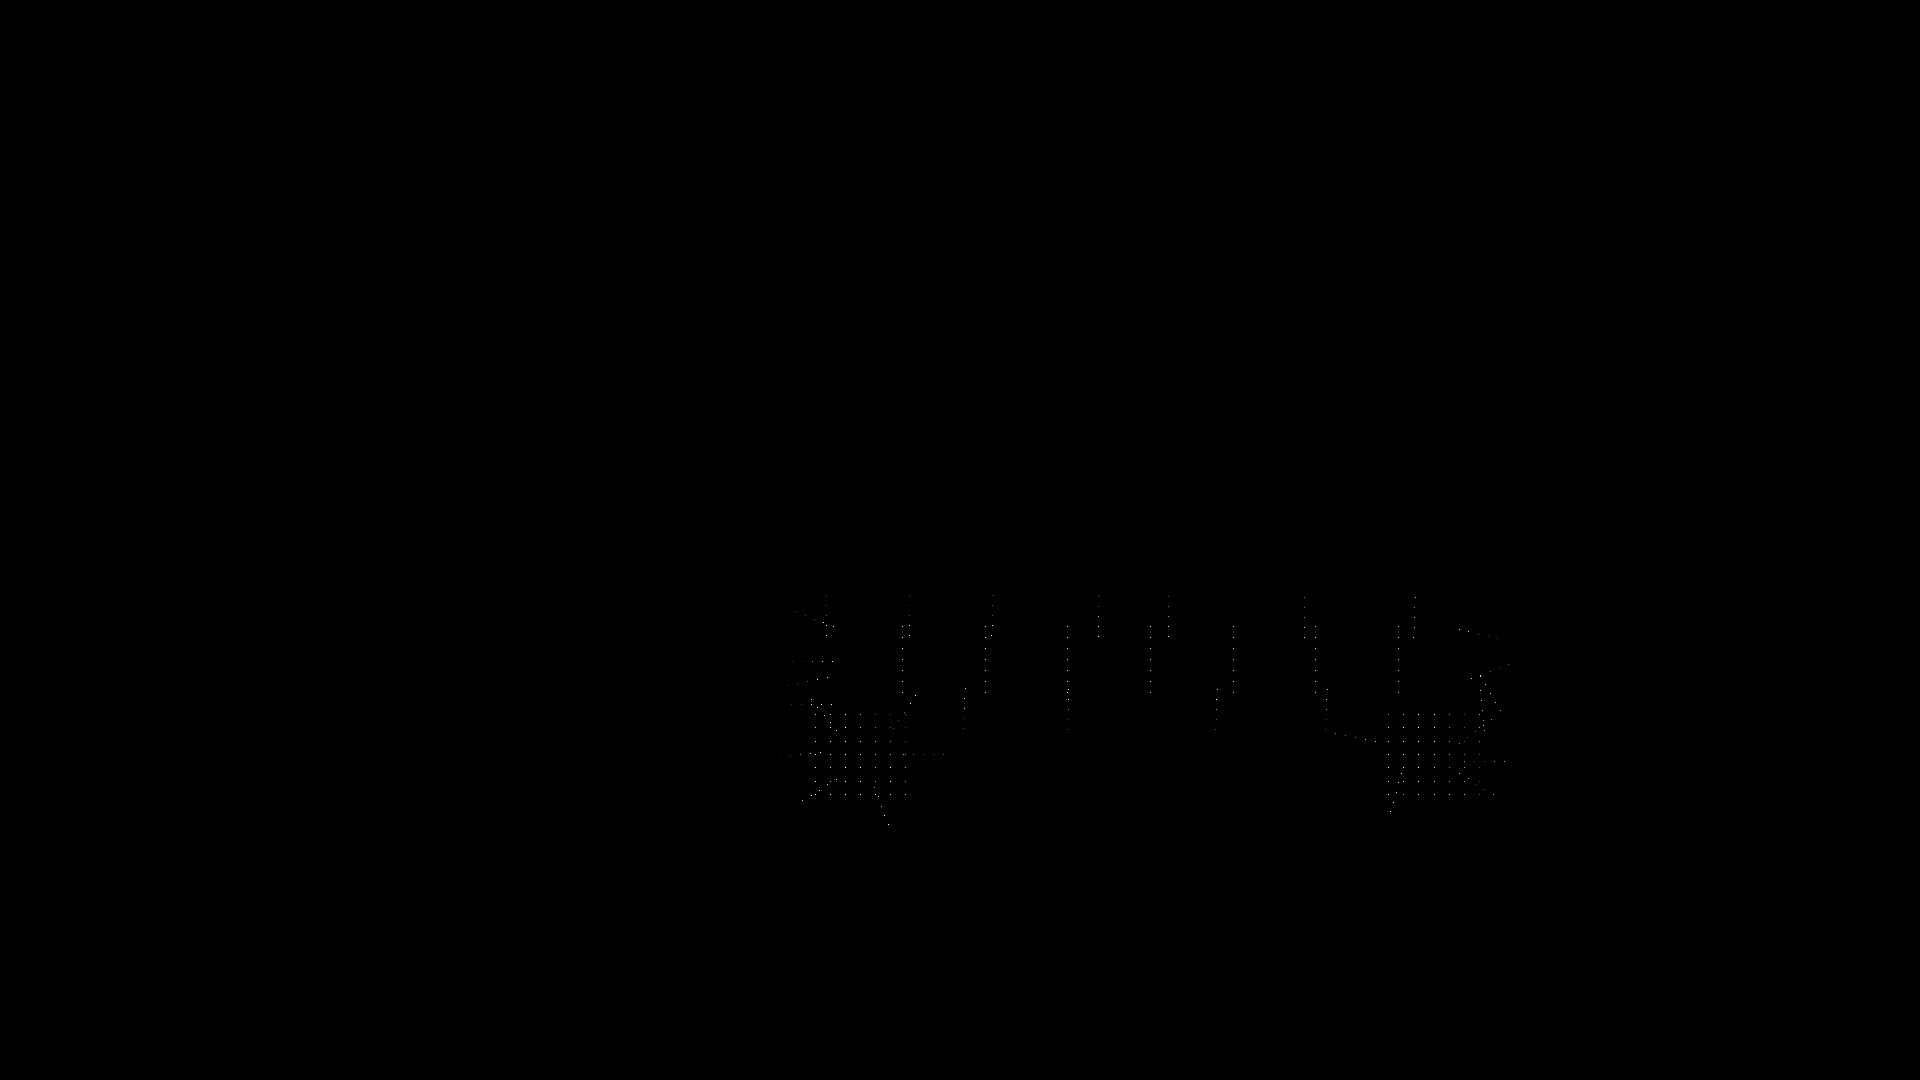
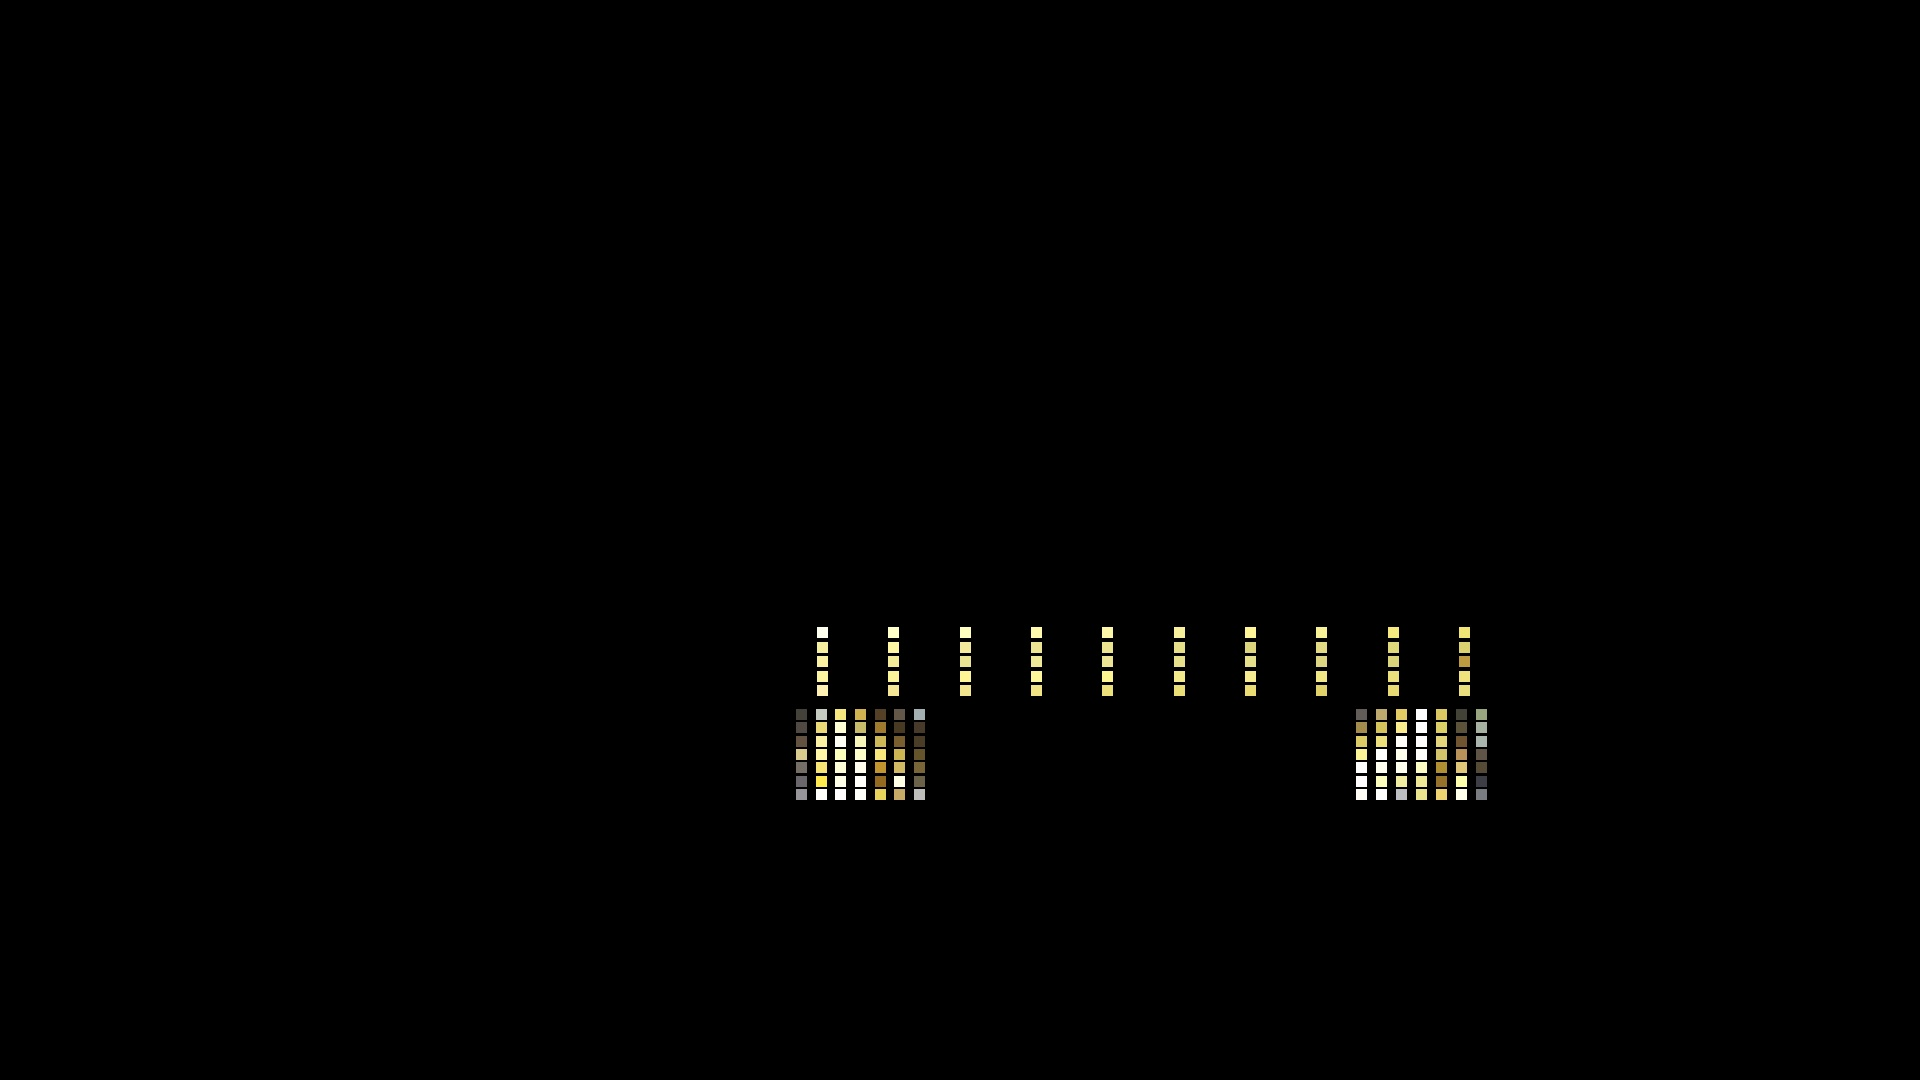
Better Visuals from truthBGR.py

Changed region(s): [[0.6875, 0.5806, 0.7812, 0.7639], [0.4062, 0.5806, 0.5, 0.7639], [0.5, 0.5806, 0.6562, 0.6417]]

diff --git a/ExtractionScripts/pix_selection.py b/ExtractionScripts/pix_selection.py
@@ -91,7 +91,7 @@ image_directory = "handrail_single_real.jpg"           #.# pre-flight caputred i
 SHOW_POLYLINES = False
 SHOW_EDGE_PIXELS = True
 # number of pixels
-num_intervals = 30
+num_intervals = 0
 num_pix_per_interval = 5                # at first, set to 1
 pix2pix_dist = 10                       # at first, set to 1
 
@@ -103,17 +103,17 @@ SHOW_ENTIRE_HANDRAIL_BBOX = False
 # bbox location
 SHOW_RAIL_BBOX = False
 SHOW_RAIL_PIX =True
-c_l_rail, c_r_rail = 0.03, 0.98
-c_t_rail, c_b_rail = 0.0, 0.46
+c_l_rail, c_r_rail = -0.07, 1.06
+c_t_rail, c_b_rail = 0.02, 0.47
 # number of pixels
-numRow_rail = 7
-numCol_rail = 7
+numRow_rail = 5
+numCol_rail = 10
 
 ### LEFT STANDOFFF ###
 # bbox location
 SHOW_LEFT_STANDOFF_BBOX = False
 SHOW_LEFT_STANDOFF_PIX =True
-c_l_L, c_r_L = 0.0, 0.175
+c_l_L, c_r_L = -0.025, 0.2
 c_t_L, c_b_L = 0.45, 1.0
 # number of pixels
 numRowL = 7
@@ -123,7 +123,7 @@ numColL = 7
 # bbox location
 SHOW_RIGHT_STANDOFF_BBOX = False
 SHOW_RIGHT_STANDOFF_PIX =True
-c_l_R, c_r_R = 0.825, 1.0
+c_l_R, c_r_R = 0.78, 1.01
 c_t_R, c_b_R = 0.45, 1.0
 # number of pixels
 numRowR = 7
@@ -433,9 +433,8 @@ with open("truthBGR_xy_coor.json", "w") as outfile:
     outfile.write(str(pix_xy))
 
 
-cv2.imshow("handrail_visual_of_pix_select.jpg", img)             # show interval of interest on edited image
-cv2.waitKey(0)
-cv2.destroyAllWindows()
-print(type(img))
+# cv2.imshow("handrail_visual_of_pix_select.jpg", img)             # show interval of interest on edited image
+# cv2.waitKey(0)
+# cv2.destroyAllWindows()
 cv2.imwrite("handrail_visual_of_pix_select.jpg", img)
 

diff --git a/ExtractionScripts/truthBGR.py b/ExtractionScripts/truthBGR.py
@@ -42,6 +42,20 @@ def truthBGR(image_directory):
 
 
 # ### INPUT VARIABLES FOR TESTING ###
+def Dot2Rect(x,y):  
+    """
+    Find pixel points around a coordinate of interest 
+    for visualizing pixel placement in image
+    Input: coordinates of interst
+    Output: min and max x,y to define rectangle"""
+    d = 5
+    x_min = int(x-d)
+    y_min = int(y-d)
+    x_max = int(x+d)
+    y_max = int(y+d)
+
+    return x_min, y_min,x_max,y_max
+
 image_directory = "handrail_single_real.jpg"            #.# caputred image
 truthBGR(image_directory)
 img_captured = cv2.imread(image_directory)
@@ -59,7 +73,13 @@ print(pix_xy)
 img_visual = np.zeros((h,w,3), dtype=np.uint8)
 for [x,y] in pix_xy:
   B,G,R = img_captured[y, x]
+  color = (B,G,R)
   img_visual[y,x]=[B, G, R]
+
+  x_c_min,y_c_min,x_c_max,y_c_max = Dot2Rect(x,y)
+  print(B,G,R)
+  print(type(int(B)))
+  img_visual = cv2.rectangle(img_visual, (x_c_min,y_c_min),(x_c_max,y_c_max), (int(B),int(G),int(R)),-1)
 
 print(len(pix_xy))
 
